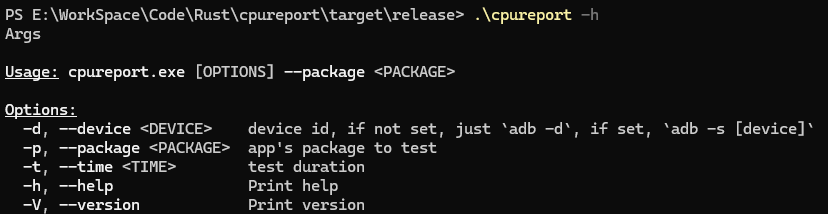
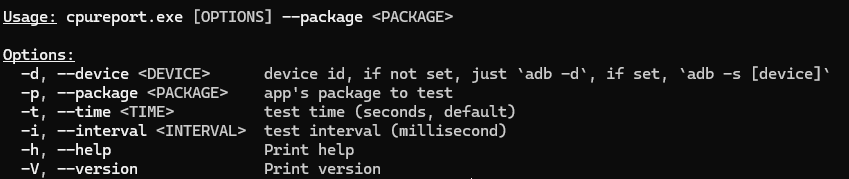
添加了时间间隔的选项

Changed region(s): [[0.0, 0.4749, 0.9964, 1.0], [0.0, 0.2793, 0.9662, 0.4749], [0.0, 0.0279, 0.7246, 0.1955]]

diff --git a/src/main.rs b/src/main.rs
@@ -1,10 +1,10 @@
+use chrono::Local;
+use clap::Parser;
+use rust_xlsxwriter::{RowNum, Workbook};
 use std::process::Command;
 use std::sync::{Arc, Mutex};
 use std::thread;
 use std::time::{Duration, SystemTime, UNIX_EPOCH};
-use chrono::Local;
-use clap::Parser;
-use rust_xlsxwriter::{RowNum, Workbook};
 
 /// Args
 #[derive(Parser, Debug)]
@@ -18,9 +18,13 @@ struct Args {
     #[arg(short, long)]
     package: String,
 
-    /// test duration (seconds)
+    /// test time (seconds, default)
     #[arg(short, long)]
-    time: Option<u64>
+    time: Option<u64>,
+
+    /// test interval (millisecond)
+    #[arg(short, long)]
+    interval: Option<u64>,
 }
 
 // Function to get the current time as a formatted string
@@ -30,17 +34,16 @@ fn get_current_time() -> String {
 
 // Function to run adb commands and capture the output
 fn run_adb_command(command: &str) -> String {
-    
-    let mut cmd = if cfg!(target_os = "windows") { 
+    let mut cmd = if cfg!(target_os = "windows") {
         let mut win_cmd = Command::new("cmd");
         win_cmd.arg("/C");
         win_cmd
-    } else { 
+    } else {
         let mut sh_cmd = Command::new("sh");
         sh_cmd.arg("-c");
         sh_cmd
     };
-    
+
     let output = cmd
         .arg(command)
         .output()
@@ -49,14 +52,18 @@ fn run_adb_command(command: &str) -> String {
 }
 
 // Function to collect CPU data
-fn get_cpu_data(cpu_list: Arc<Mutex<Vec<f64>>>, device:&str, end_time: u64, pkg: &str) {
-    while SystemTime::now()
-        .duration_since(UNIX_EPOCH)
-        .unwrap()
-        .as_secs()
-        < end_time
-    {
-        let top_result = run_adb_command(&format!("adb {} shell top -b -n 1 | grep {}", device, pkg));
+fn get_cpu_data(
+    cpu_list: Arc<Mutex<Vec<f64>>>,
+    interval: u64,
+    device: &str,
+    end_time: u64,
+    pkg: &str,
+) {
+    let interval_millis = Duration::from_millis(interval);
+
+    while now() < end_time {
+        let top_result =
+            run_adb_command(&format!("adb {} shell top -b -n 1 | grep {}", device, pkg));
         if let Some(cpu_line) = top_result.lines().next() {
             let cpu_value: f64 = cpu_line
                 .split_whitespace()
@@ -68,43 +75,58 @@ fn get_cpu_data(cpu_list: Arc<Mutex<Vec<f64>>>, device:&str, end_time: u64, pkg:
             println!("CPU: {}", cpu_value);
             cpu_list.lock().unwrap().push(cpu_value);
         }
-        thread::sleep(Duration::from_secs(1));
+        thread::sleep(interval_millis);
     }
     cpu_list.lock().unwrap().remove(0); // Remove the first anomalous value
 }
 
 // Function to collect memory data
-fn get_mem_data(mem_list: Arc<Mutex<Vec<f64>>>, device:&str, end_time: u64, pkg: &str) {
+fn get_mem_data(
+    mem_list: Arc<Mutex<Vec<f64>>>,
+    interval: u64,
+    device: &str,
+    end_time: u64,
+    pkg: &str,
+) {
+    let interval_millis = Duration::from_millis(interval);
 
-    while SystemTime::now()
-        .duration_since(UNIX_EPOCH)
-        .unwrap()
-        .as_secs()
-        < end_time
-    {
+    while now() < end_time {
         let mem_result = run_adb_command(&format!("adb {} shell dumpsys meminfo {}", device, pkg));
         mem_result.lines().for_each(|line| {
             if line.contains("TOTAL PSS:") {
                 // println!("{}", line);
-                let pss_memory = line.split_whitespace().collect::<Vec<&str>>().get(2).unwrap_or(&"0").parse().unwrap_or(0.0);
-                println!("Mem: {}", pss_memory);
+                let pss_memory = line
+                    .split_whitespace()
+                    .collect::<Vec<&str>>()
+                    .get(2)
+                    .unwrap_or(&"0")
+                    .parse()
+                    .unwrap_or(0.0);
+                println!("MEM: {}", pss_memory);
                 mem_list.lock().unwrap().push(pss_memory);
             }
         });
-        thread::sleep(Duration::from_secs(3));
+        thread::sleep(interval_millis);
     }
 
     // 通常执行脚本第一个数据异常的高，移除第一个数据
     mem_list.lock().unwrap().remove(0);
 }
 
+fn now() -> u64 {
+    SystemTime::now()
+        .duration_since(UNIX_EPOCH)
+        .unwrap()
+        .as_secs()
+}
+
 // Main function
 fn main() {
-
     let args = Args::parse();
     let pkg = args.package;
     let device = args.device.unwrap_or("".to_string());
     let duration = args.time.unwrap_or(60);
+    let interval = args.interval.unwrap_or(1000);
 
     println!("测试包名为: {}", pkg);
 
@@ -122,8 +144,10 @@ fn main() {
         .as_secs()
         + duration;
 
-    println!("测试时长为: {}", duration);
-    println!("结束时间为: {}", end_time);
+    println!("测试间隔为: {}(milliseconds)", interval);
+    println!("测试时长为: {}(seconds)", duration);
+    println!("结束时间为: {}(timestamp)", end_time);
+
 
     let f_path = ".";
 
@@ -135,14 +159,14 @@ fn main() {
         let cpu_list = Arc::clone(&cpu_list);
         let pkg = pkg.clone();
         let device_cmd = device_cmd.clone();
-        thread::spawn(move || get_cpu_data(cpu_list, &device_cmd, end_time, &pkg))
+        thread::spawn(move || get_cpu_data(cpu_list, interval, &device_cmd, end_time, &pkg))
     };
 
     let mem_thread = {
         let mem_list = Arc::clone(&mem_list);
         let pkg = pkg.clone();
         let device_cmd = device_cmd.clone();
-        thread::spawn(move || get_mem_data(mem_list, &device_cmd, end_time, &pkg))
+        thread::spawn(move || get_mem_data(mem_list, interval, &device_cmd, end_time, &pkg))
     };
 
     // Wait for threads to finish
@@ -163,11 +187,18 @@ fn main() {
     let cpu_sum = cpu_data.iter().sum::<f64>();
 
     let cpu_average: f64 = cpu_sum / cpu_data.len() as f64;
-    let cpu_max = cpu_data.iter().max_by(|a, b| a.total_cmp(b)).unwrap_or(&0.0);
+    let cpu_max = cpu_data
+        .iter()
+        .max_by(|a, b| a.total_cmp(b))
+        .unwrap_or(&0.0);
 
     let mem_sum = mem_data.iter().sum::<f64>();
     let mem_average: f64 = mem_sum / (mem_data.len() as f64 * 1024.0);
-    let mem_max = mem_data.iter().max_by(|a, b| a.total_cmp(b)).unwrap_or(&0.0) / 1024.0;
+    let mem_max = mem_data
+        .iter()
+        .max_by(|a, b| a.total_cmp(b))
+        .unwrap_or(&0.0)
+        / 1024.0;
 
     println!("cpu均值: {}", cpu_average);
     println!("cpu峰值: {}", cpu_max);
@@ -182,8 +213,20 @@ fn main() {
         cpu_data.iter().enumerate().for_each(|(idx, cpu)| {
             sheet.write(idx as RowNum, 1, cpu.to_string()).unwrap();
         });
-        sheet.write_row(cpu_data.len() as RowNum, 0, ["Cpu Max", cpu_max.to_string().as_str()]).unwrap();
-        sheet.write_row(cpu_data.len() as RowNum + 1, 0, ["Cpu Average", cpu_average.to_string().as_str()]).unwrap();
+        sheet
+            .write_row(
+                cpu_data.len() as RowNum,
+                0,
+                ["Cpu Max", cpu_max.to_string().as_str()],
+            )
+            .unwrap();
+        sheet
+            .write_row(
+                cpu_data.len() as RowNum + 1,
+                0,
+                ["Cpu Average", cpu_average.to_string().as_str()],
+            )
+            .unwrap();
 
         workbook.save(&cpu_file_path).unwrap();
     }
@@ -197,8 +240,20 @@ fn main() {
             sheet.write(idx as RowNum, 1, memory.to_string()).unwrap();
         });
 
-        sheet.write_row(mem_data.len() as RowNum, 0, ["Mem Max", mem_max.to_string().as_str()]).unwrap();
-        sheet.write_row(mem_data.len() as RowNum + 1, 0, ["Mem Average", mem_average.to_string().as_str()]).unwrap();
+        sheet
+            .write_row(
+                mem_data.len() as RowNum,
+                0,
+                ["Mem Max", mem_max.to_string().as_str()],
+            )
+            .unwrap();
+        sheet
+            .write_row(
+                mem_data.len() as RowNum + 1,
+                0,
+                ["Mem Average", mem_average.to_string().as_str()],
+            )
+            .unwrap();
 
         workbook.save(&mem_file_path).unwrap();
     }
